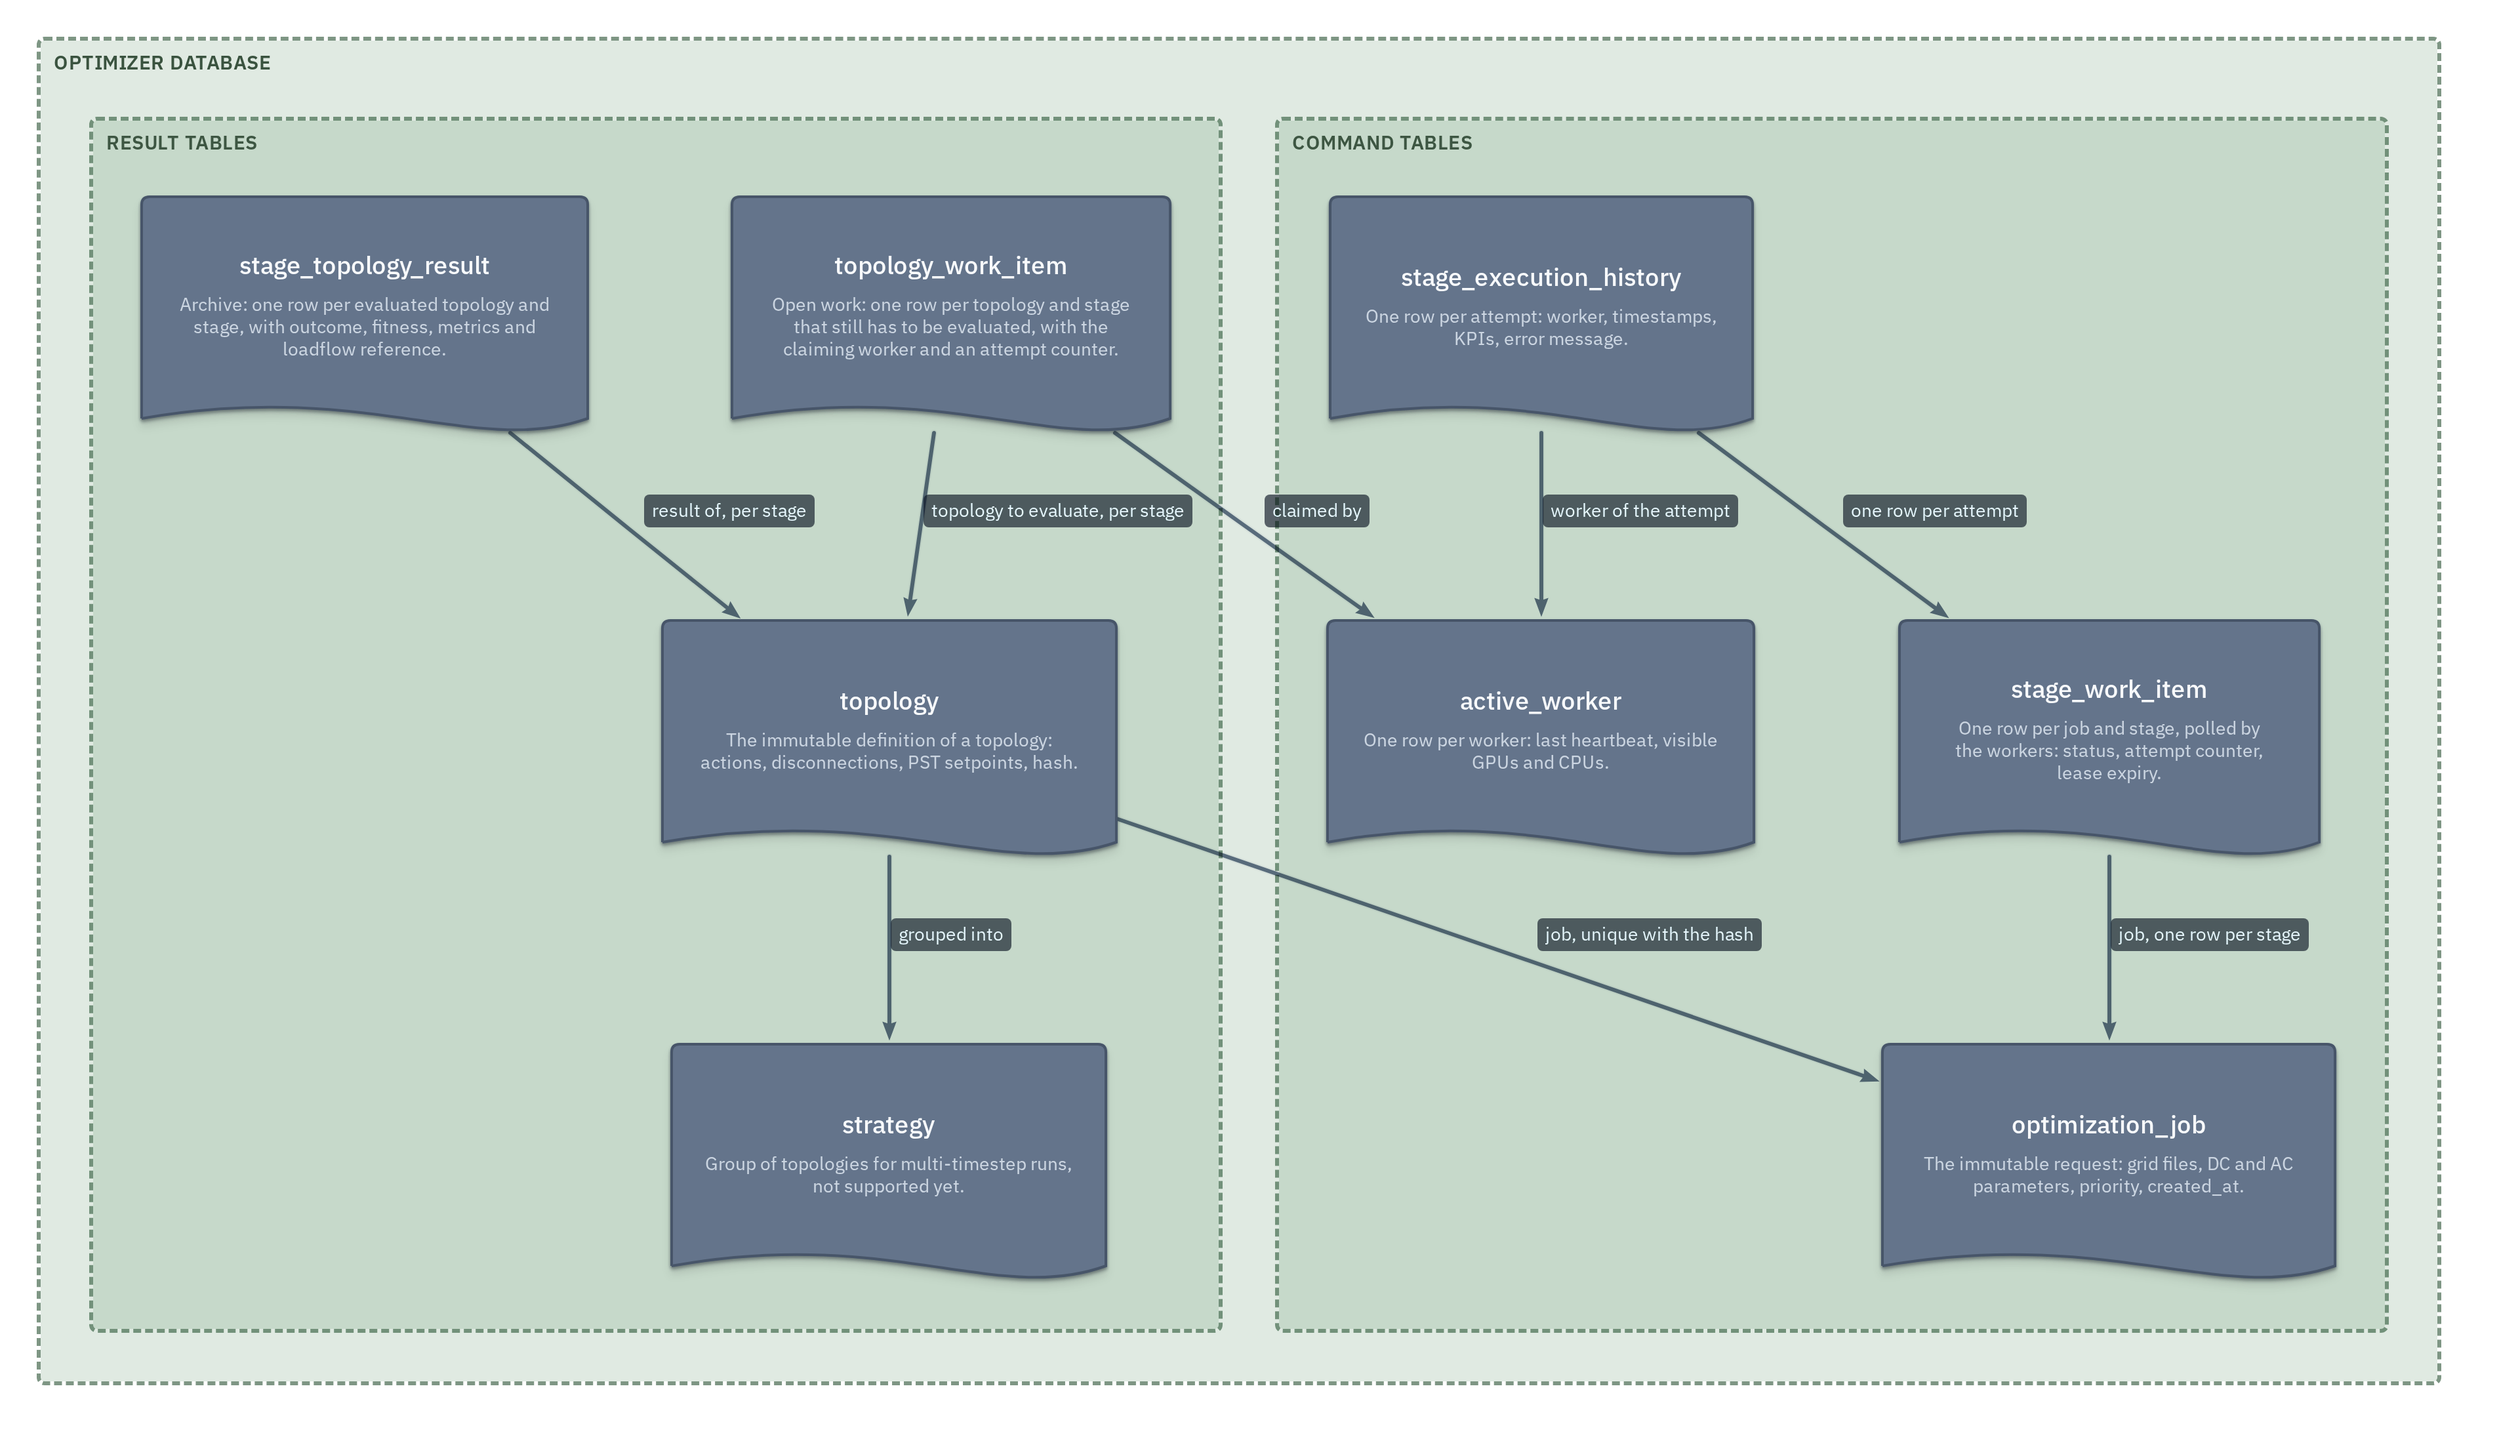
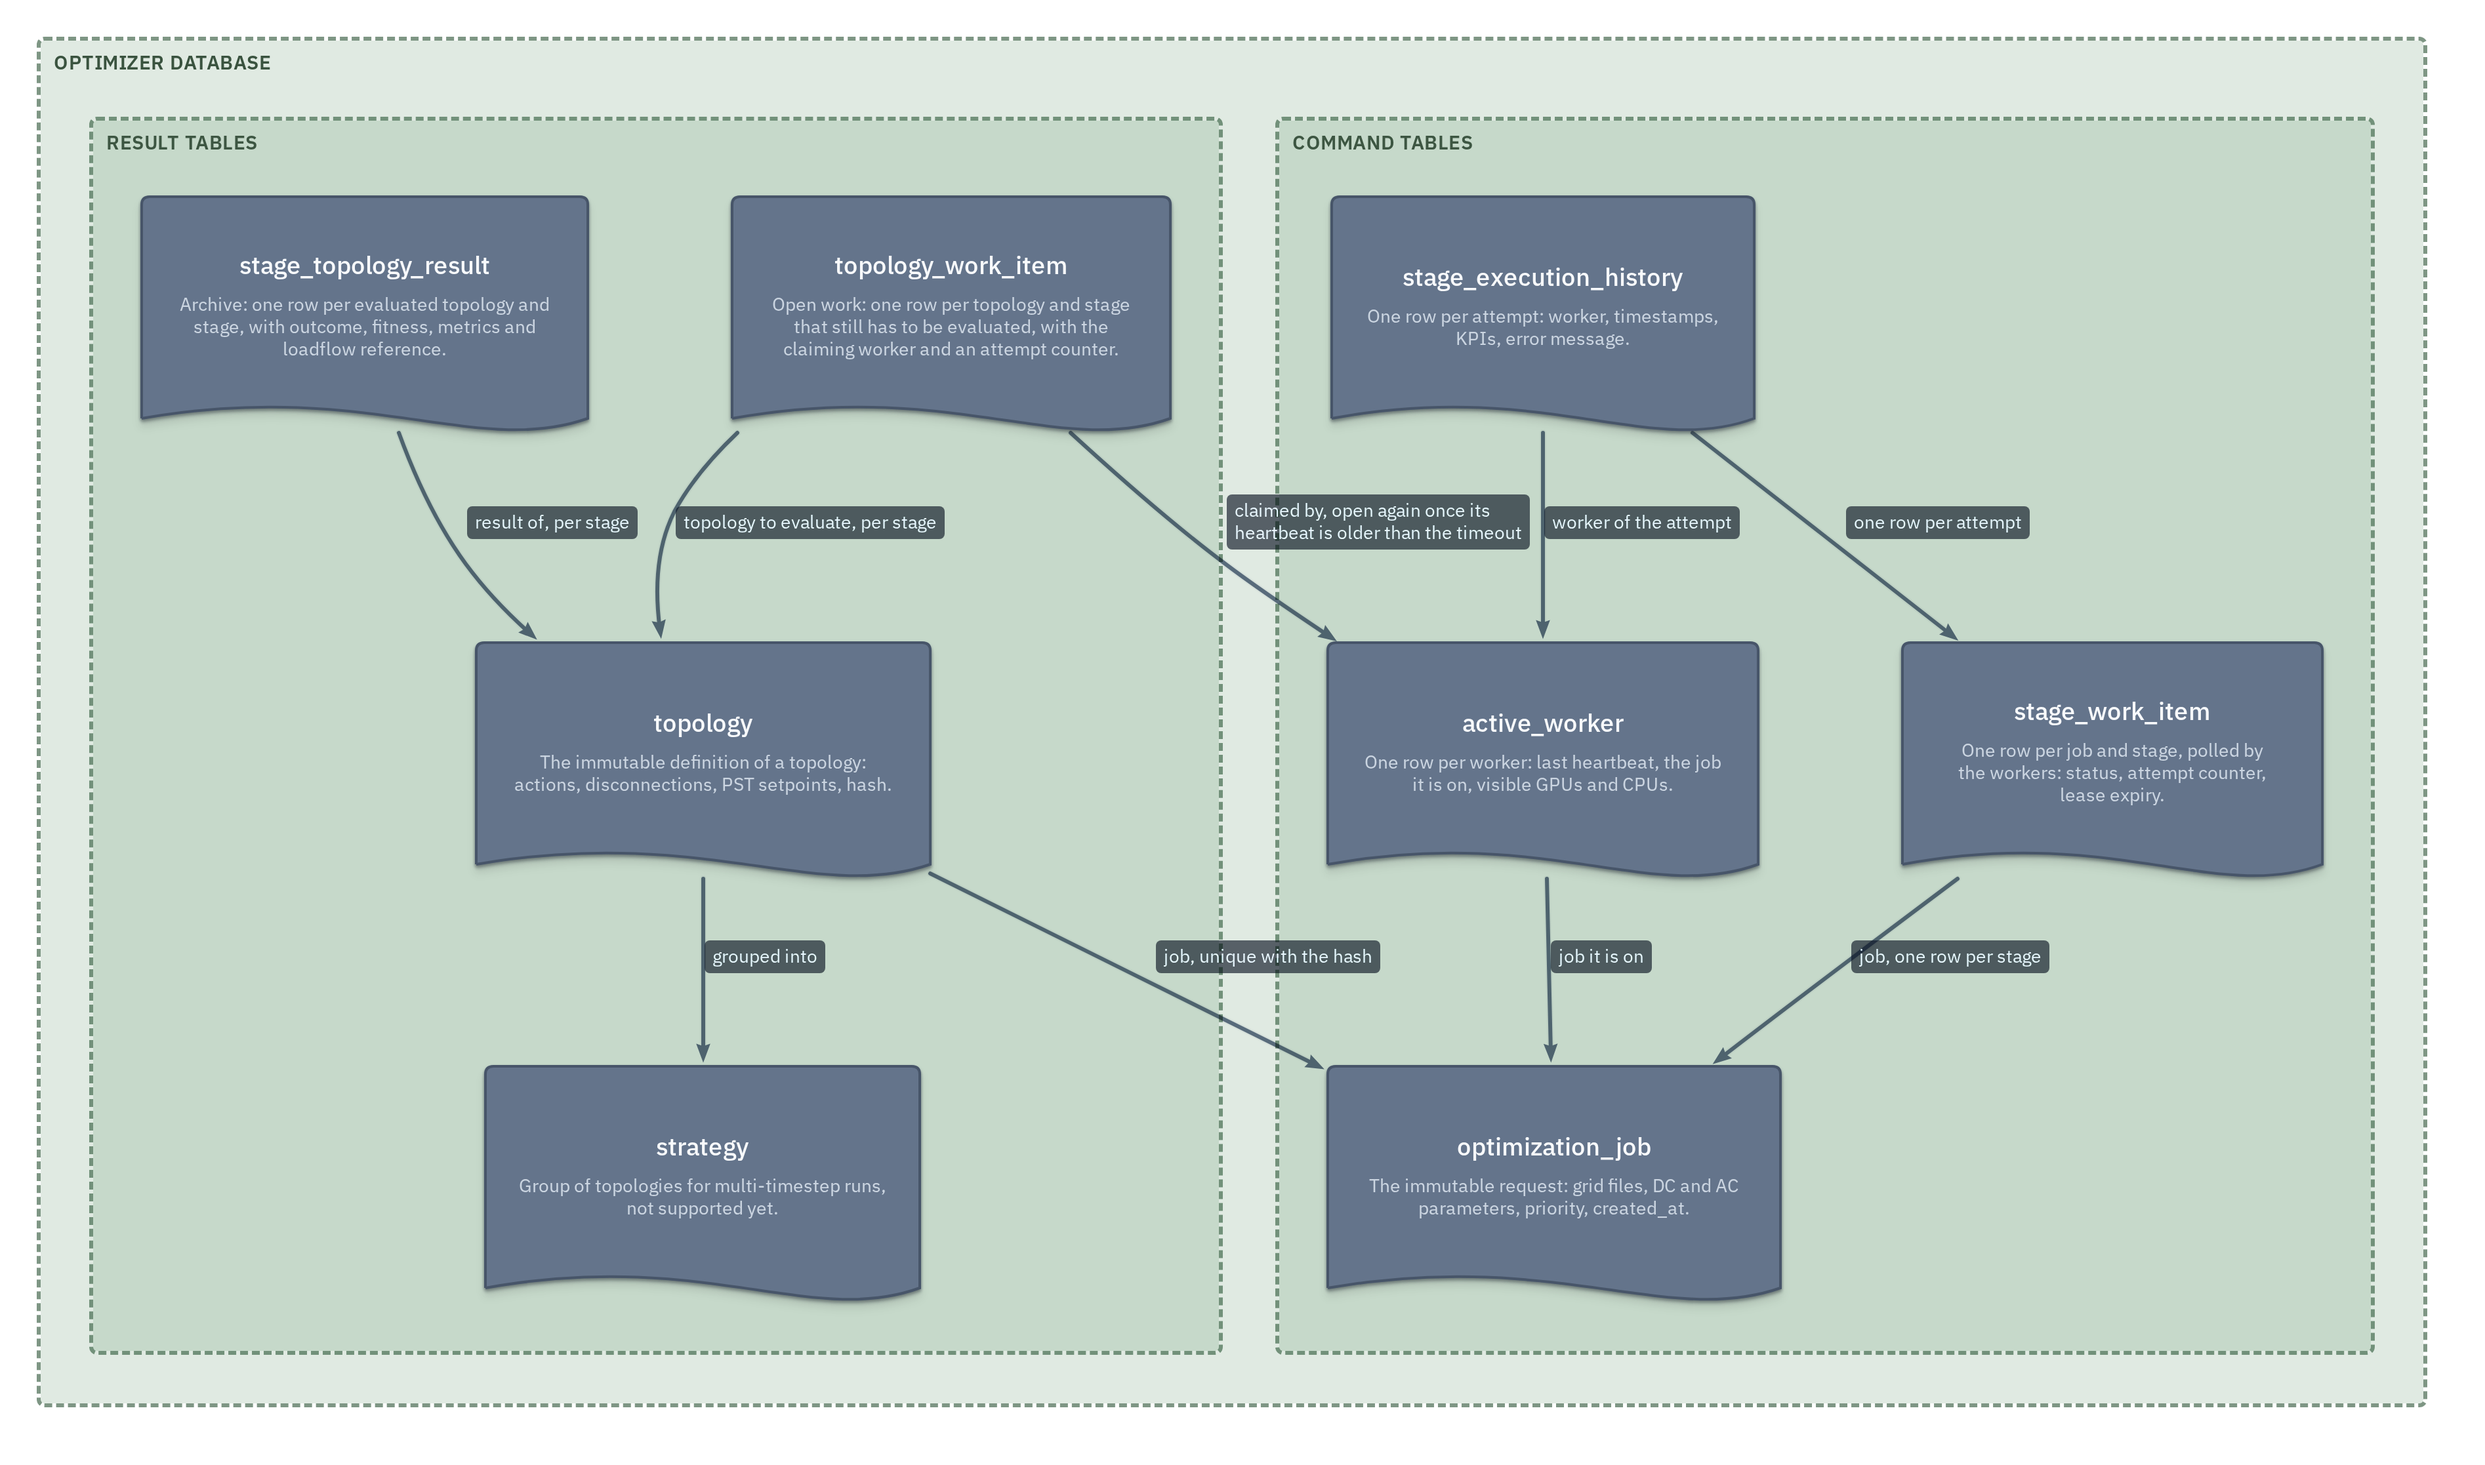
docs: Add heartbeats schema

diff --git a/docs/architecture/decision-drafts/002-postgres-commands/README.md b/docs/architecture/decision-drafts/002-postgres-commands/README.md
@@ -13,8 +13,8 @@ informed: []
 
 This document describes how the kafka topics between the api service and the optimizer workers (commands, results,
 heartbeats) could be replaced by a postgres database. The diagrams are in `postgres-commands.c4` next to this file and
-show up in the architecture app as `postgresCommands`, `postgresCommandsTables` and `postgresCommandsLifecycle`. The
-as-is counterpart is the `optimizerCoordination` view. 
+show up in the architecture app as `postgresCommands`, `postgresCommandsTables`, `postgresCommandsLiveness` and
+`postgresCommandsLifecycle`. The as-is counterpart is the `optimizerCoordination` view. 
 
 Currently, the api service sends a `StartOptimizationCommand` to the commands topic, both stages consume it, push
 topologies to the shared results topic and report liveliness through heartbeats. The state of an optimization does not
@@ -112,6 +112,11 @@ The design in short:
 - The selection of topologies for the AC stages (dominator, median and discriminator filter, weighted sampling) happens in a transaction.
 - An optimization is a staged run of dc, maybe dc+, fast-failing ac and ac on the same topology.
 - Optimization is the first refactor target, import to follow later.
+
+The second picture shows how the database tells a working worker from a dead one.
+There are two different mechanisms for AC and DC: The DC stage is judged by a lease on its StageWorkItem that the worker refreshes every epoch. AC workers liveliness is judged by the last write to ActiveWorker in the heartbeat tables.  A TopologyWorkItem of an AC stage has no lease of its own, it is open again once the heartbeat of the worker that claimed it is older than the timeoutc.
+
+![Worker liveness and claims. The DC optimizer claims the DC stage in stage_work_item with SKIP LOCKED and refreshes the lease every epoch. The AC validator and the AC fast-failing stage read the shared state of their stage in stage_work_item and claim items in topology_work_item. All three workers write a heartbeat every few seconds into active_worker, the AC workers also the job they are on. A topology_work_item references the active_worker that claimed it and is open again once its heartbeat is older than the timeout. stage_work_item and active_worker reference optimization_job.](images/postgres_commands_liveness.png)
 
 How this works in detail, which requirements follow from it, which failure modes we see and what is still open is
 documented in the [design details](design-details.md).
@@ -218,5 +223,5 @@ Not set yet. The ADR is still proposed, the review date defaults to one year aft
   of share groups (`group.share.*`).
 * [Release notes of confluent-kafka-python 2.15.0](https://github.com/confluentinc/confluent-kafka-python/releases/tag/v2.15.0),
   for the state of the share consumer in the python client.
-* `postgres-commands.c4` next to this file, with the views `postgresCommands`, `postgresCommandsTables` and
-  `postgresCommandsLifecycle` in the architecture app. The as-is counterpart is the `optimizerCoordination` view.
+* `postgres-commands.c4` next to this file, with the views `postgresCommands`, `postgresCommandsTables`,
+  `postgresCommandsLiveness` and `postgresCommandsLifecycle` in the architecture app. The as-is counterpart is the `optimizerCoordination` view.
